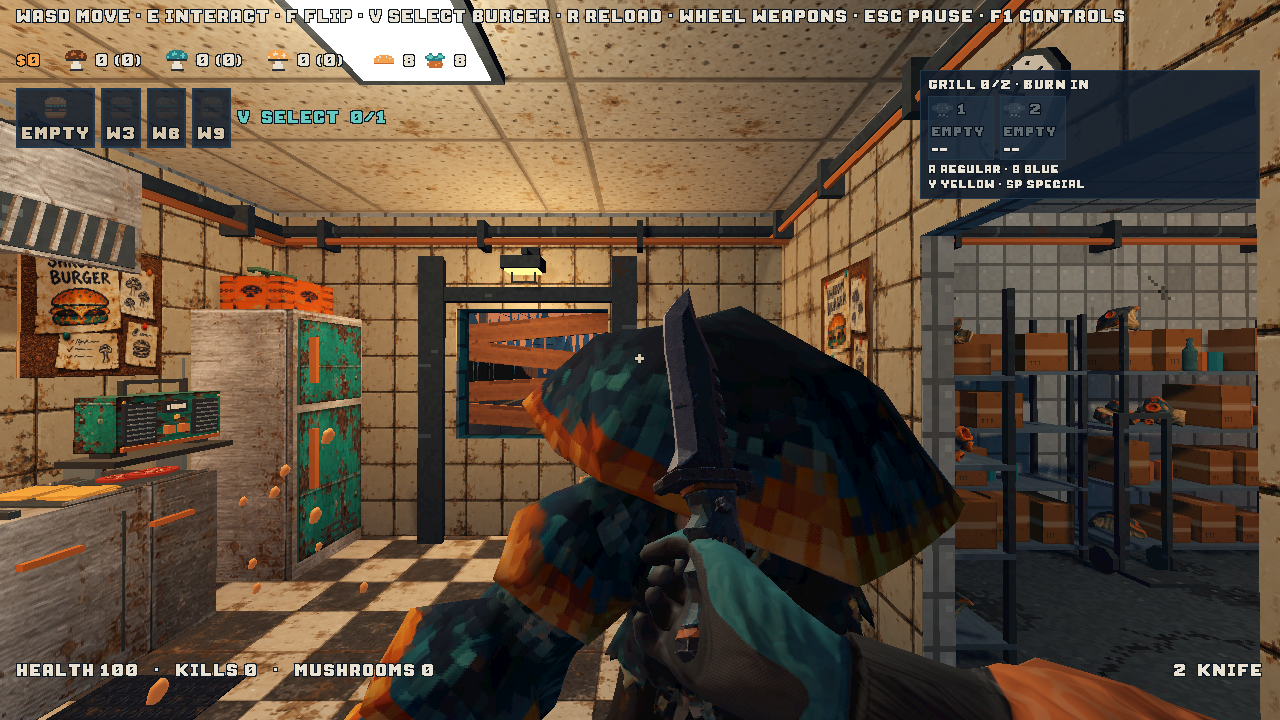
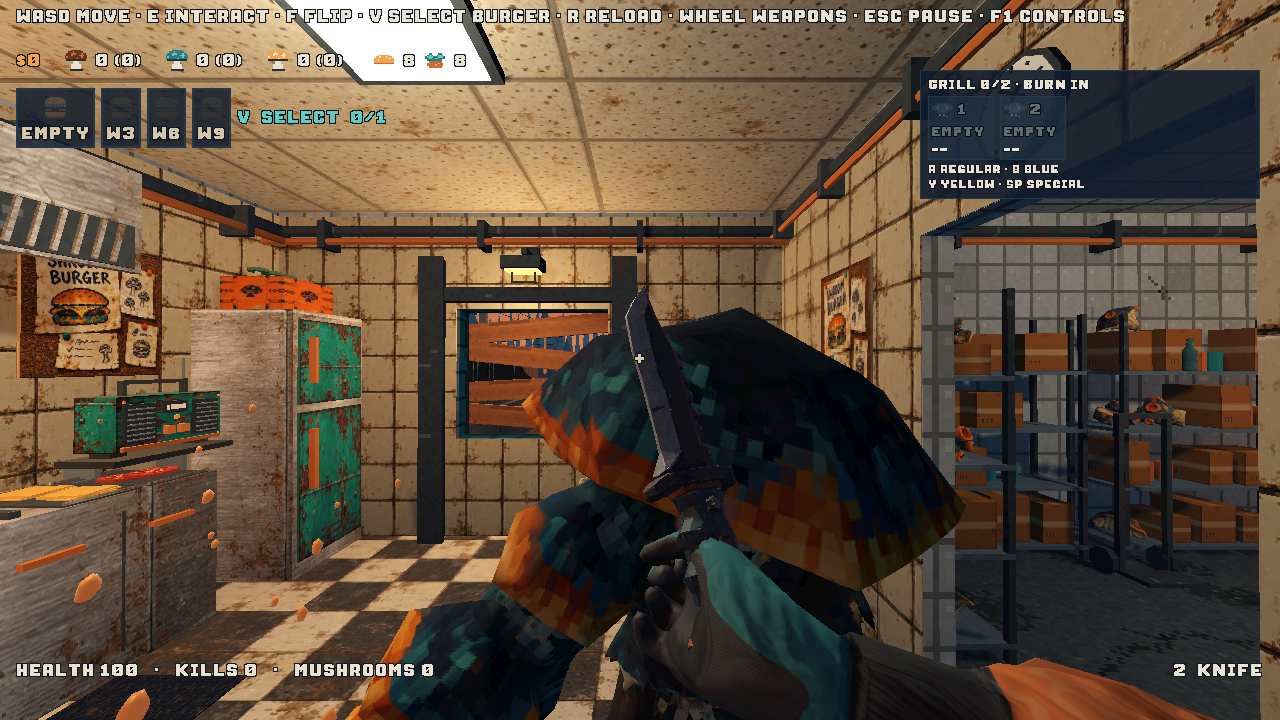
Tilt the survival knife 12 degrees within the unchanged hand grip
Knife gameplay, viewmodel and shared-arm tests pass; inspect native close-up, idle and attack renders.

diff --git a/docs/handover/WEAPON_HAND_PLACEMENT.md b/docs/handover/WEAPON_HAND_PLACEMENT.md
@@ -13,6 +13,10 @@ blade direction without deforming the authored skin. The alternate dagger is
 explicitly excluded. `KNIFE_WRIST_ROLL` in knife_weapon.gd controls this turn;
 no generated mesh or fit needs rebuilding for this rigid roll.
 
+The blade also has a separate 12-degree inward adjustment about the centre of
+its handle (`BLADE_GRIP_TILT`). Only KnifeSocket/GripOffset/Model is rotated at
+initialization; hand bones, IK targets and the accepted wrist pose stay unchanged.
+
 Both shotguns now use explicitly placed grip frames for both hands, solved at
 the runtime 1.25x rig size. The sawn-off rear hand sits higher and rolls slightly
 round its stock; the pump rear hand is fitted against the narrow grip rather than
